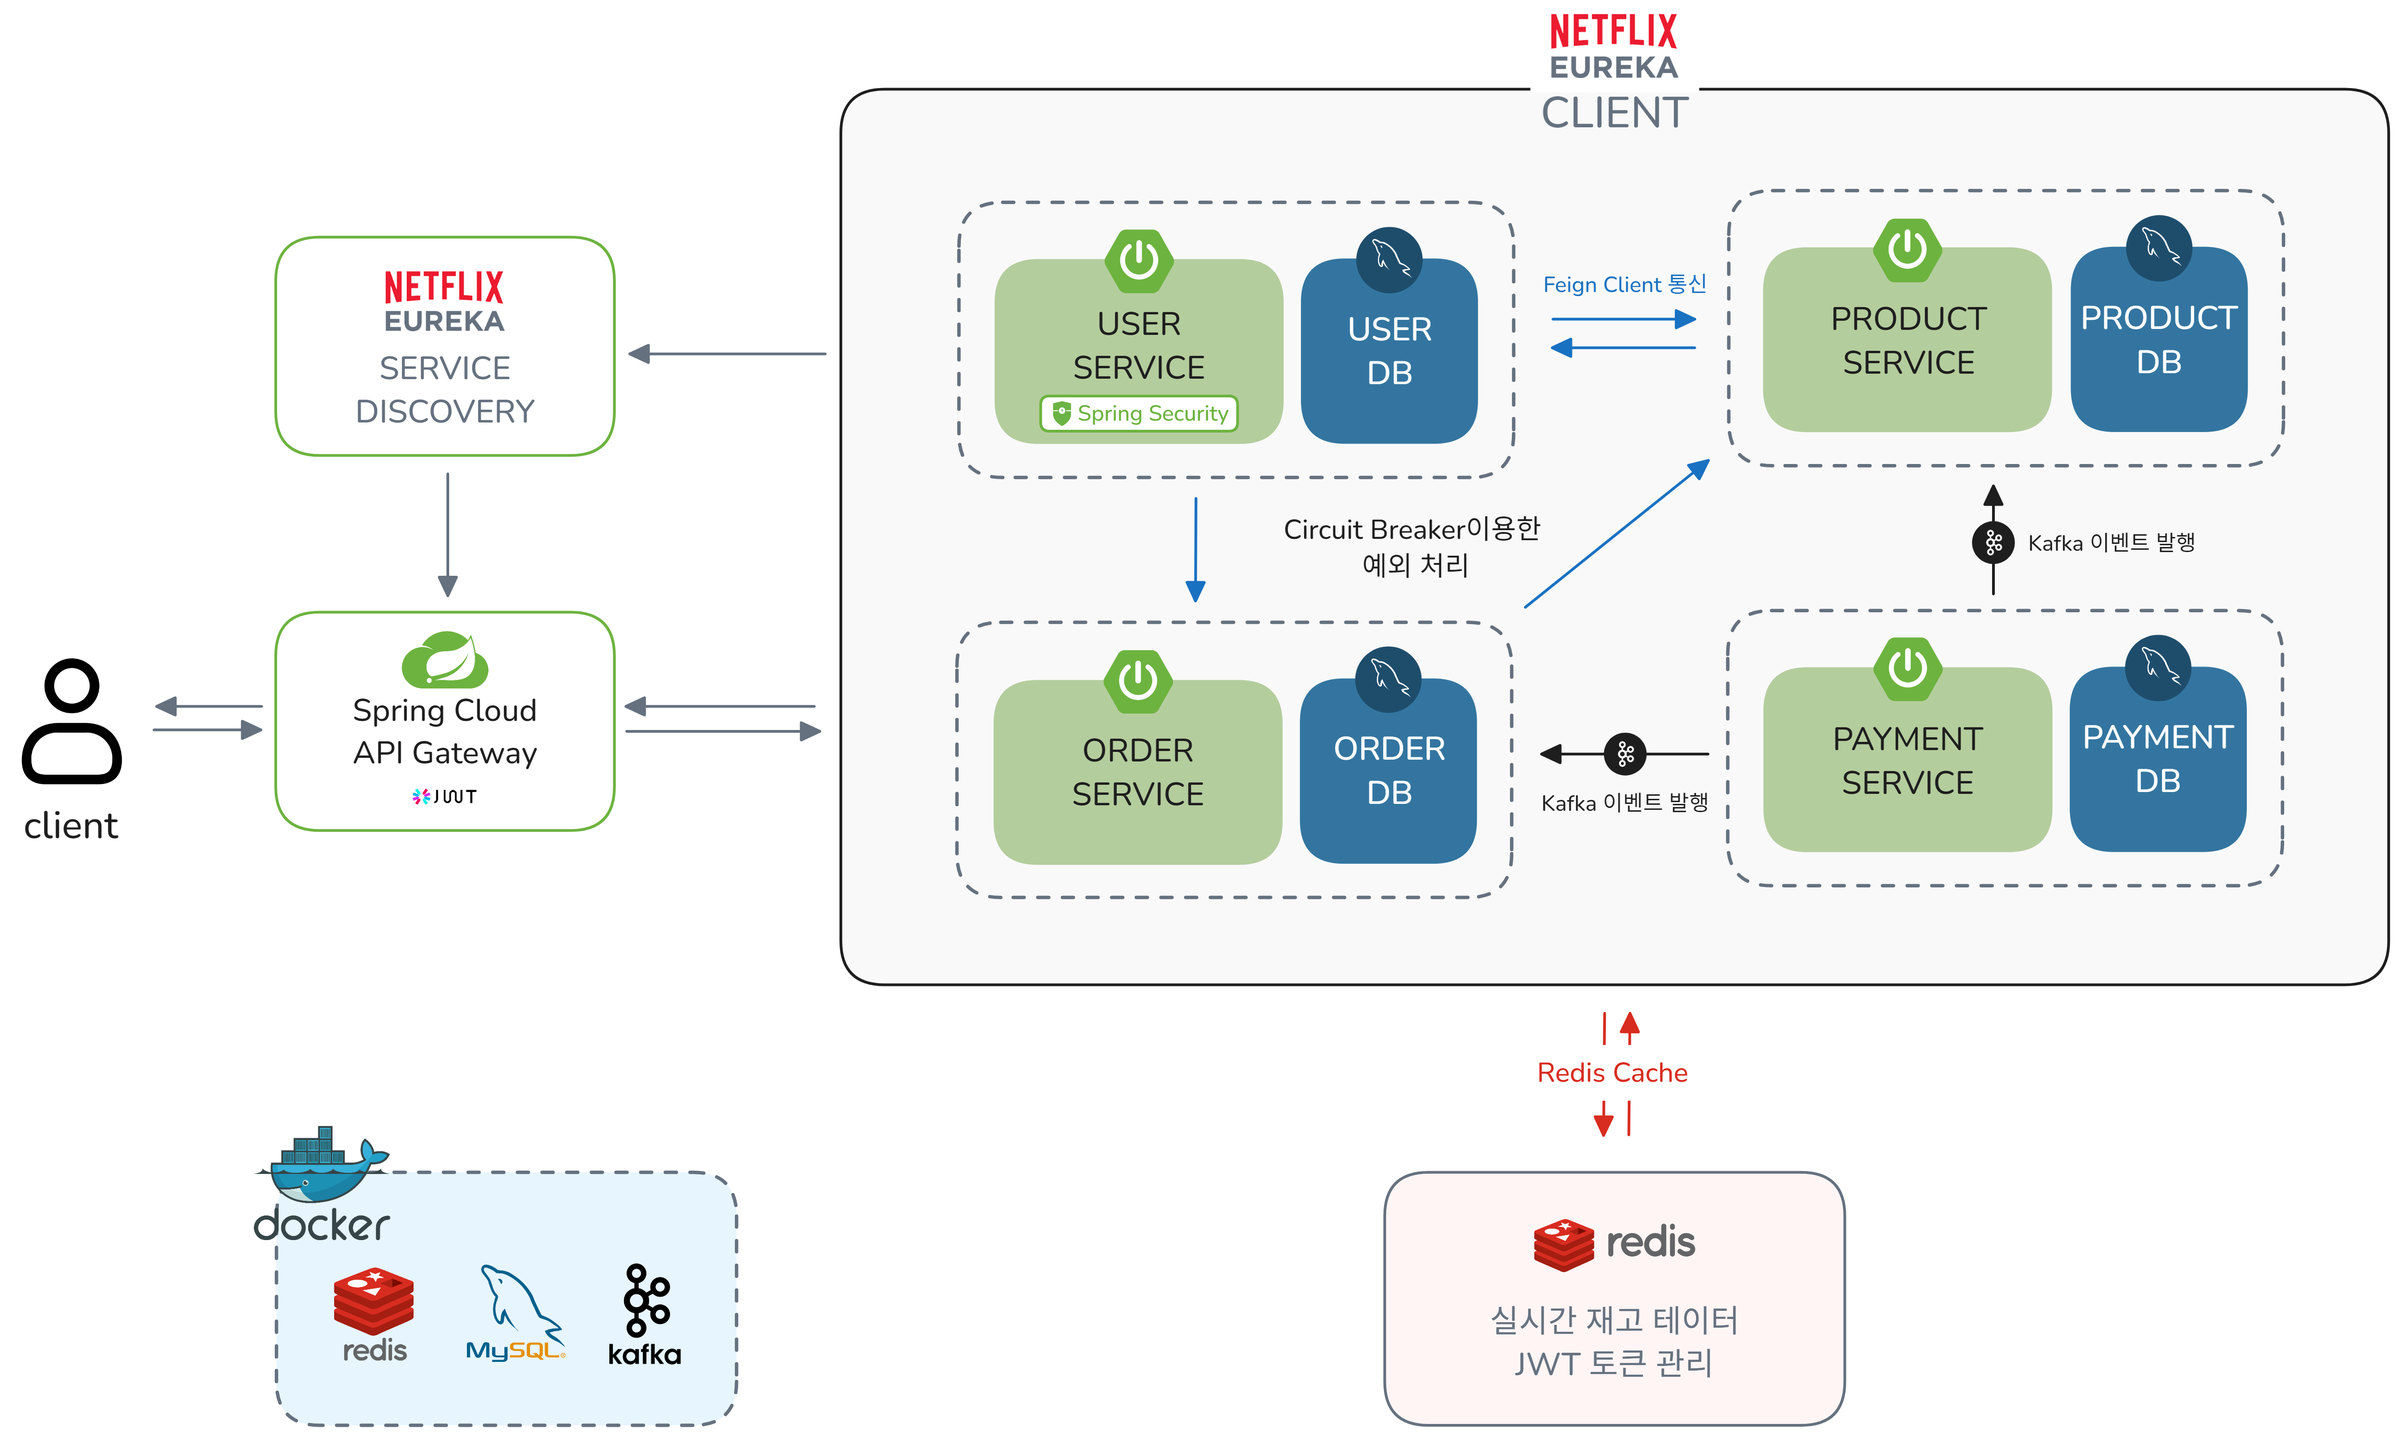
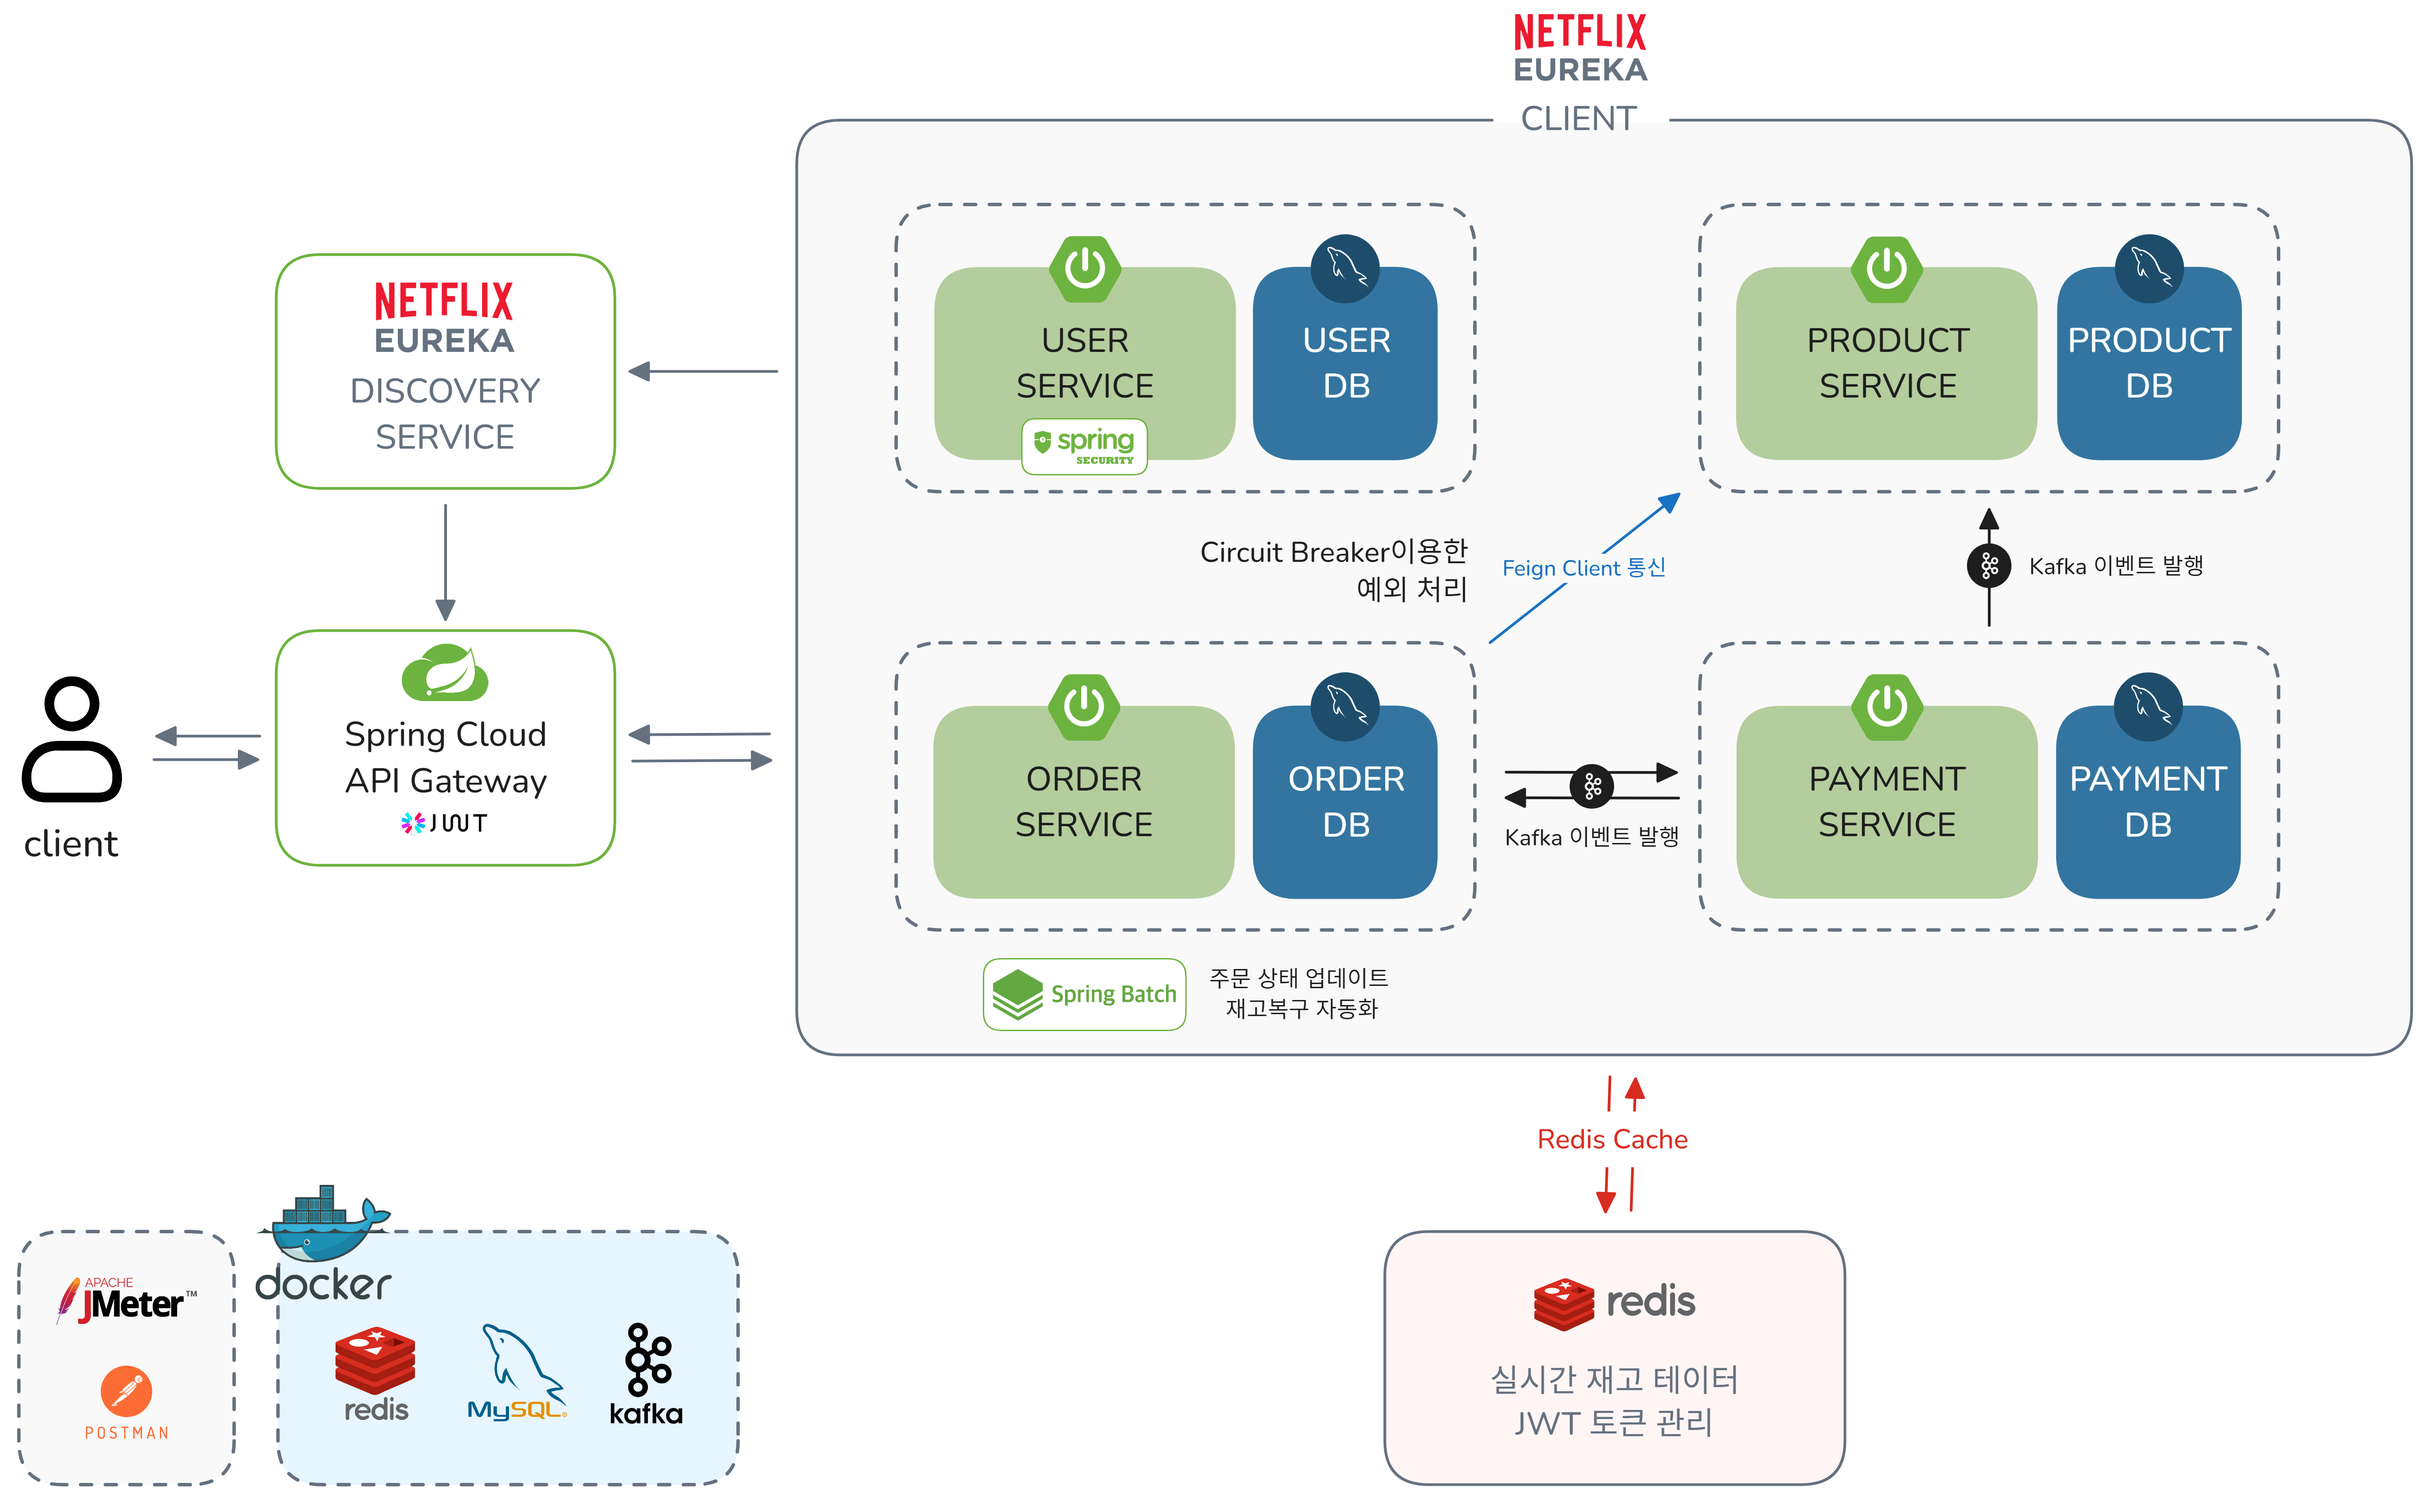
README

diff --git a/README.md b/README.md
@@ -4,6 +4,8 @@ Spring boot 기반의 **대규모의 트래픽을 처리해 선착순 구매 기
 또한 **MSA(Microservices Architecture)** 를 도입하여 각 서비스의 확장과 유지보수성을 향상시켰습니다.
 
 일반적인 상품 구매 기능과, 한정된 수량의 상품을 특정 시간에 오픈하여 선착순으로 구매할 수 있는 기능을 제공합니다.  
+
+
 - 개발 기간 : 2024.08.07 ~ 2024.09.04
 - [API 명세서](https://documenter.getpostman.com/view/30578335/2sA3s3GqpS)  
 
@@ -27,6 +29,51 @@ Spring boot 기반의 **대규모의 트래픽을 처리해 선착순 구매 기
 - API Gateway : Spring Cloud Gateway
 - SMTP: Spring Boot Mail Starter
 
-## Main Feature
+## 구현기능
+- **OpenFeign과 Resilience4j를 활용한 마이크로서비스 간 통신**
+  - 신뢰성 있는 통신 및 장애 복원력 강화
+- **KafKa를 사용한 비동기 이벤트 처리**
+  - 비동기적인 메시지 브로커 역할을 하는 Kafka를 통해 마이크로서비스 간의 느슨한 결합을 유지하며 이벤트 기반 아키텍처를 구현.
+  - 비즈니스 이벤트 처리 시 Kafka의 높은 처리량을 활용하여 성능 최적화.
+- **Redisson 분산락을 통한 동시성 문제 해결**
+  - Redis 기반의 Redisson Lock을 사용하여 재고나 주문 처리 시 발생할 수 있는 동시성 문제를 방지.
+- **Redis 기반 실시간 캐싱 및 재고 관리**
+  - Cache-Aside / Write-Behind 캐시 전략을 통해 대규모 트래픽에서도 빠르고 안정적인 재고 조회 및 관리
+- **Api Gateway를 통한 라우팅 및 인가 기능 구현**
+  - 클라이언트의 요청을 적절한 마이크로서비스로 라우팅하고, 부하를 분산시켜 시스템 효율성을 높임.
+  - Gateway 레벨에서 JWT 토큰 검증을 통해 비인가 사용자의 접근을 차단.
+- **Netflix Eureka를 활용한 서비스 등록 및 디스커버리**
+  - Eureka를 통해 마이크로서비스 간의 동적 등록 및 검색이 가능하도록 설정.
+- **[JWT 토큰 발급을 통한 무상태 인증 시스템 구현](https://jjuya.tistory.com/197)**
+  - Spring Security와 JWT(Json Web Token)를 사용하여 사용자 인증을 처리하며, 무상태(stateless) 방식으로 세션 없이 인증을 유지
+- **spring batch와 스케쥴러를 이용한 배송 상태 및 재고 복구 관리**
+  - 정기적으로 배송 상태 업데이트 및 재고 복구 작업을 자동화
+- **이메일 인증을 통한 회원가입**
+  - Google SMTP를 활용하여 회원가입시 이메일 인증 진행
+- **[AES 기반 양방향 암호화를 통한 보안 강화](https://jjuya.tistory.com/198)**
+  - 중요한 사용자 정보나 민감한 데이터를 안전하게 보호할 수 있도록 개인정보 양방향 암호화 처리.
+
+
+## 트러블슈팅
+- **동시성 문제 해결**
+  - Redis의 Redisson Lock을 사용하여 분산 환경에서도 안전하게 동시성 제어 구현
+- **보안 강화를위한 Refresh 토큰 추가 발급**
+  - JWT 기반 인증 시스템에서 Refresh 토큰을 활용하여 액세스 토큰이 만료된 경우 재발급을 처리. 이를 통해 사용자 로그인 세션의 지속성을 유지하면서도, 보안성을 강화.
+- **Circuit Breaker/ Retry 를 사용하여 마이크로 서비스 간 장애 전파방지**
+  - 시적인 장애 또는 네트워크 지연이 발생할 경우에도 자동으로 재시도를 진행
+  - 특정 마이크로서비스에서 지속적인 장애가 발생하면 그 서비스로의 요청을 차단. 이를 통해 장애가 다른 서비스로 전파되는 것을 방지
+
+
+## 성능개선
+- **[Redis 캐싱을 통한 성능 개선](https://jjuya.tistory.com/207)**
+  - 실시간 재고 관리 및 데이터 조회에서 Redis 캐싱을 적용하여 성능을 향상.
+  - TPS : 62.5/sec -> 94.9/sec (약  51.84%성능 개선)
+
+- **kafka 비동기 처리로 성능개선**
+  - 기존의 동기 방식으로 OpenFeign을 통해 마이크로서비스 간 통신하던 부분을 Kafka 비동기 이벤트 처리로 전환하여 성능을 최적화.
+  - TPS : 58.8/sec -> 81.1/sec(약 37.9%성능 개선)
+
+- **상품페이지 페이징처리**
+
 
 ## 버전
